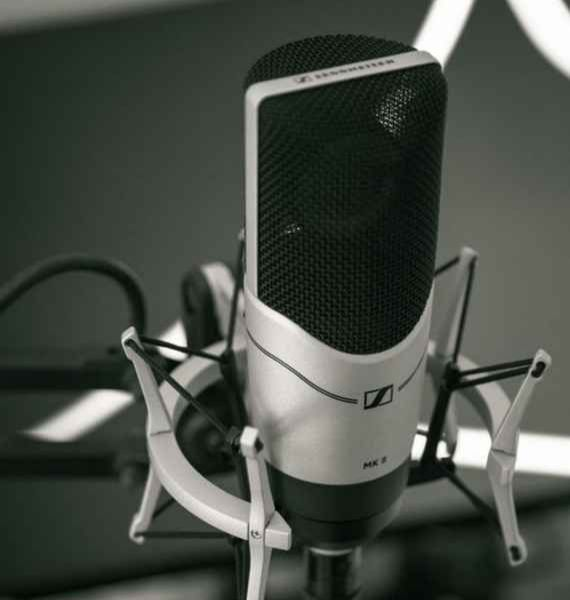
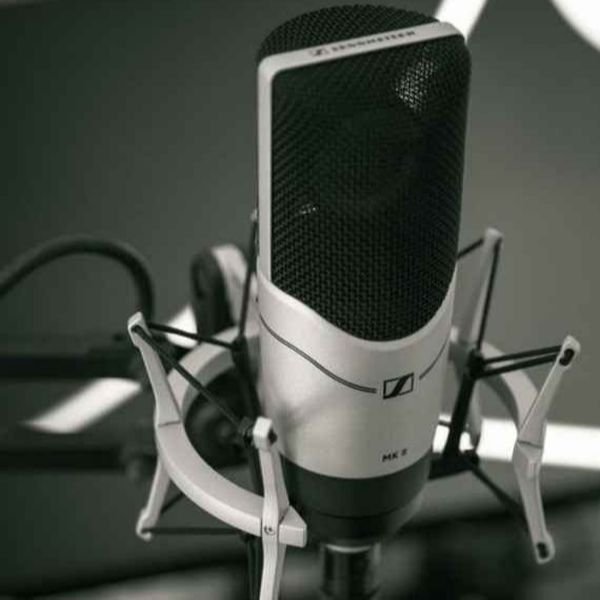
Add: Restituidas las img que faltaban

diff --git a/database/models/songsdb.js b/database/models/songsdb.js
@@ -1,5 +1,5 @@
 const Sequelize = require('sequelize');
-module.exports = function (sequelize, DataTypes) {
+module.exports = function(sequelize, DataTypes) {
   return sequelize.define('songsdb', {
     songId: {
       autoIncrement: true,
@@ -37,7 +37,7 @@ module.exports = function (sequelize, DataTypes) {
     },
     id: {
       type: DataTypes.INTEGER,
-      allowNull: false,
+      allowNull: true,
       references: {
         model: 'usersdb',
         key: 'id'
@@ -47,20 +47,21 @@ module.exports = function (sequelize, DataTypes) {
     sequelize,
     tableName: 'songsdb',
     timestamps: false,
-    indexes: [{
+    indexes: [
+      {
         name: "PRIMARY",
         unique: true,
         using: "BTREE",
-        fields: [{
-          name: "songId"
-        }, ]
+        fields: [
+          { name: "songId" },
+        ]
       },
       {
         name: "fkSongsDBUsersDB1idx",
         using: "BTREE",
-        fields: [{
-          name: "id"
-        }, ]
+        fields: [
+          { name: "id" },
+        ]
       },
     ]
   });

diff --git a/database/models/usersdb.js b/database/models/usersdb.js
@@ -1,5 +1,5 @@
 const Sequelize = require('sequelize');
-module.exports = function (sequelize, DataTypes) {
+module.exports = function(sequelize, DataTypes) {
   return sequelize.define('usersdb', {
     id: {
       autoIncrement: true,
@@ -24,7 +24,7 @@ module.exports = function (sequelize, DataTypes) {
       allowNull: true
     },
     userAvatar: {
-      type: DataTypes.STRING(20),
+      type: DataTypes.STRING(100),
       allowNull: true
     },
     bio: {
@@ -43,13 +43,15 @@ module.exports = function (sequelize, DataTypes) {
     sequelize,
     tableName: 'usersdb',
     timestamps: false,
-    indexes: [{
-      name: "PRIMARY",
-      unique: true,
-      using: "BTREE",
-      fields: [{
-        name: "id"
-      }, ]
-    }, ]
+    indexes: [
+      {
+        name: "PRIMARY",
+        unique: true,
+        using: "BTREE",
+        fields: [
+          { name: "id" },
+        ]
+      },
+    ]
   });
 };

diff --git a/database/models/instrumentsdb.js b/database/models/instrumentsdb.js
@@ -1,5 +1,5 @@
 const Sequelize = require('sequelize');
-module.exports = function (sequelize, DataTypes) {
+module.exports = function(sequelize, DataTypes) {
   return sequelize.define('instrumentsdb', {
     InstrumId: {
       autoIncrement: true,
@@ -39,20 +39,21 @@ module.exports = function (sequelize, DataTypes) {
     sequelize,
     tableName: 'instrumentsdb',
     timestamps: false,
-    indexes: [{
+    indexes: [
+      {
         name: "PRIMARY",
         unique: true,
         using: "BTREE",
-        fields: [{
-          name: "InstrumId"
-        }, ]
+        fields: [
+          { name: "InstrumId" },
+        ]
       },
       {
         name: "fkInstrumentsDBUsersDB1_idx",
         using: "BTREE",
-        fields: [{
-          name: "id"
-        }, ]
+        fields: [
+          { name: "id" },
+        ]
       },
     ]
   });

diff --git a/database/models/init-models.js b/database/models/init-models.js
@@ -8,22 +8,10 @@ function initModels(sequelize) {
   var songsdb = _songsdb(sequelize, DataTypes);
   var usersdb = _usersdb(sequelize, DataTypes);
 
-  instrumentsdb.belongsTo(usersdb, {
-    as: "usersDB",
-    foreignKey: "id"
-  });
-  usersdb.hasMany(instrumentsdb, {
-    as: "instrumentsdbs",
-    foreignKey: "id"
-  });
-  songsdb.belongsTo(usersdb, {
-    as: "usersDB",
-    foreignKey: "id"
-  });
-  usersdb.hasMany(songsdb, {
-    as: "songsdbs",
-    foreignKey: "id"
-  });
+  instrumentsdb.belongsTo(usersdb, { as: "id_usersdb", foreignKey: "id"});
+  usersdb.hasMany(instrumentsdb, { as: "instrumentsdbs", foreignKey: "id"});
+  songsdb.belongsTo(usersdb, { as: "id_usersdb", foreignKey: "id"});
+  usersdb.hasMany(songsdb, { as: "songsdbs", foreignKey: "id"});
 
   return {
     instrumentsdb,
